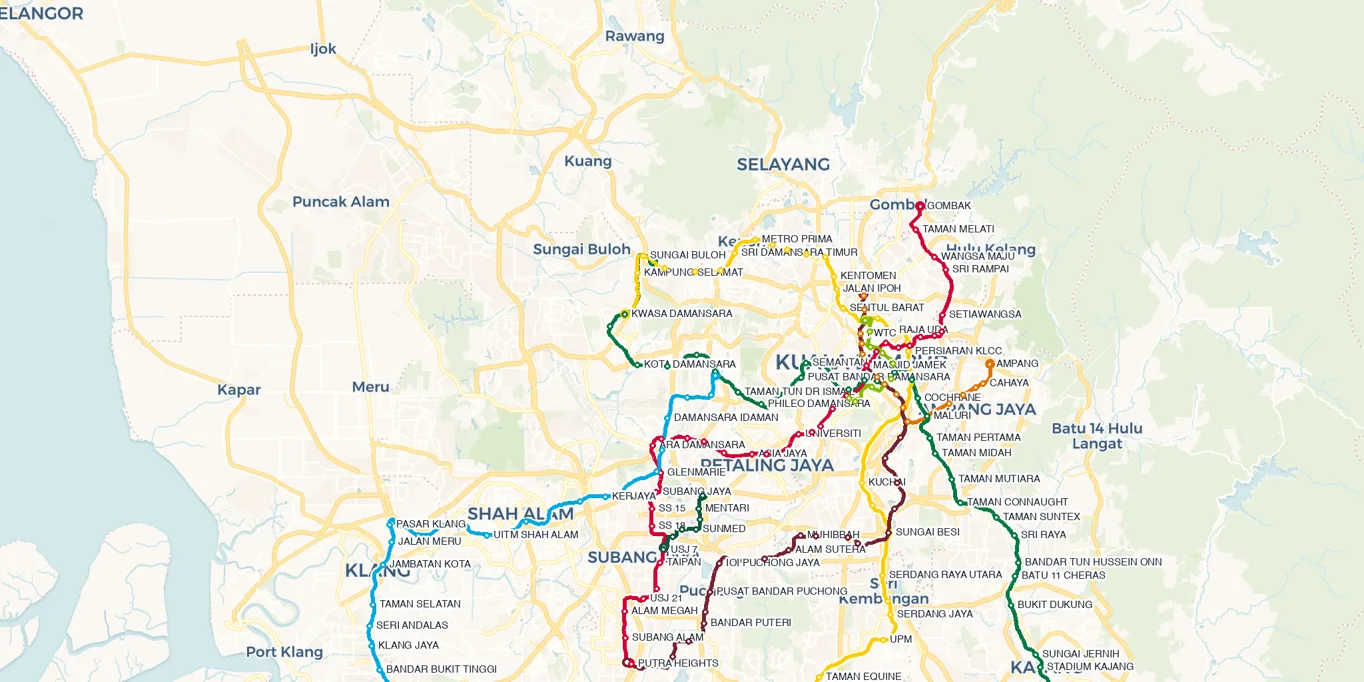
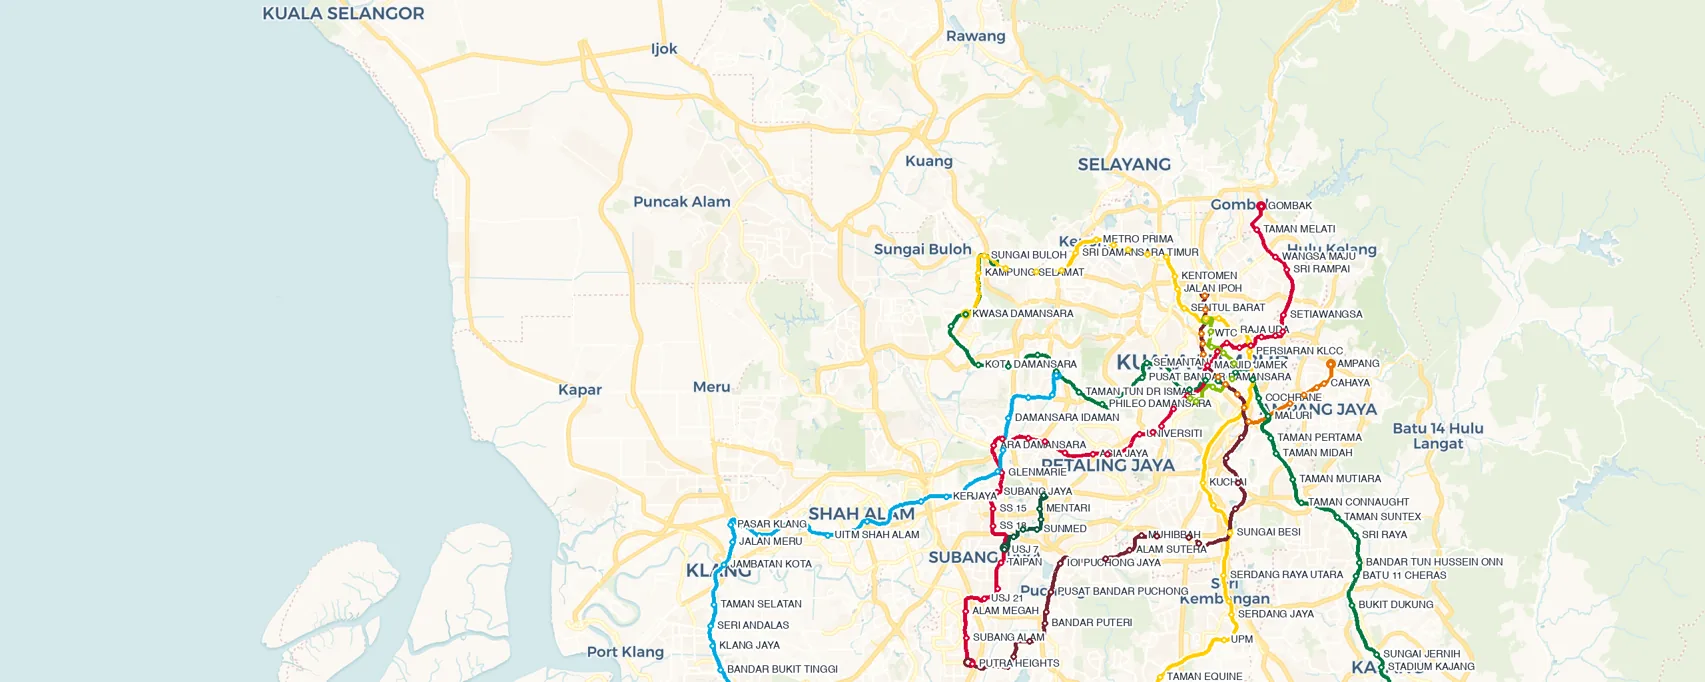
Hero: full network in frame at 2.5:1, slimmer band

diff --git a/blog/make-images.py b/blog/make-images.py
@@ -119,7 +119,8 @@ build("ktm-klang-valley", 3.05, 101.65, 10,
 build("changi-airport", 1.345, 103.96, 12,
       [("sg-rail","CGL",None),("sg-bus","36","#2563eb")])
 build("klia-area", 2.76, 101.70, 11, [])
-# Wide banner for the landing hero: the whole KL rail network in one strip.
-build("hero-banner", 3.11, 101.66, 11,
+# Wide banner for the landing hero: the ENTIRE network in frame — Port Klang
+# to Gombak to Kajang — at the band's own 2.5:1 aspect so nothing crops.
+build("hero-banner", 3.08, 101.62, 11,
       [(RAIL, c, None) for c in ["KGL","PYL","KJL","AGL","SPL","SAL","MRL","BRT"]],
-      cols=4, rows=2)
+      cols=5, rows=2)
